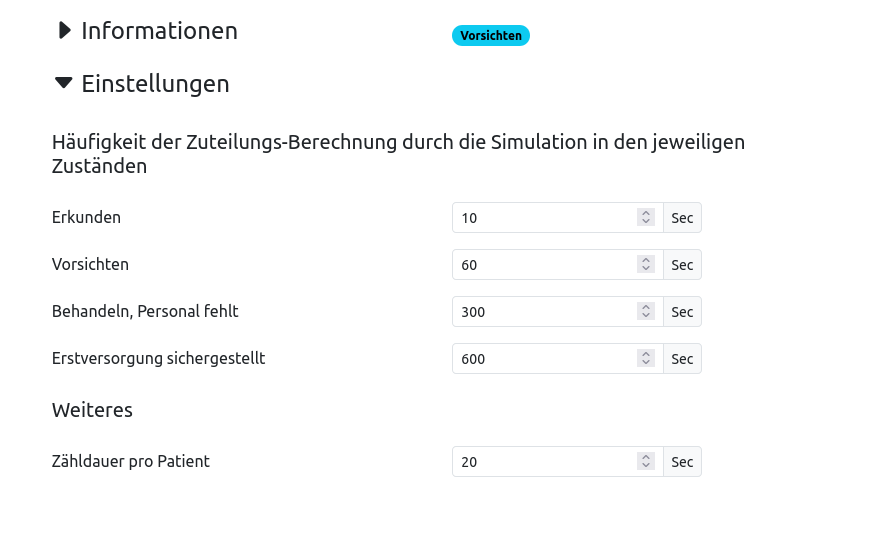
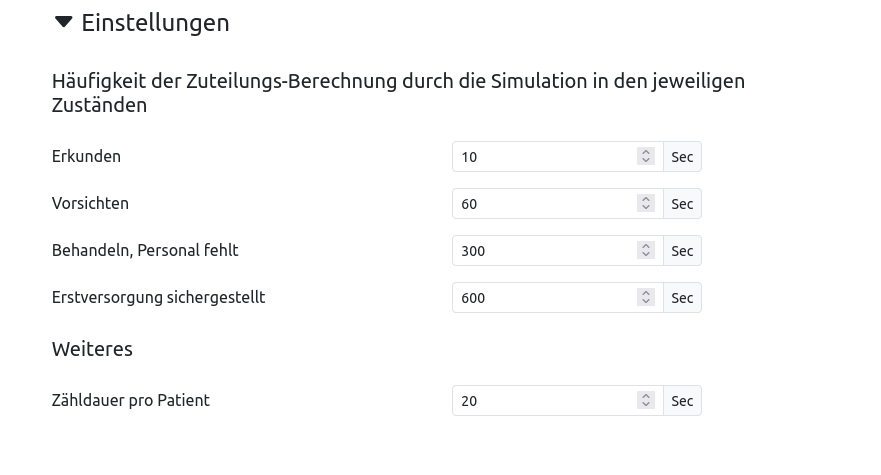
Implement feedback

diff --git a/docs/src/3_simulation/2_behaviors.md b/docs/src/3_simulation/2_behaviors.md
@@ -31,7 +31,7 @@ Damit eine Führungskraft zugewiesen werden kann, muss sich Personal im simulier
 
 Lässt Personal aus allen Fahrzeugen aussteigen, die diesen Bereich erreichen.
 
-Personal, das sich in Fahrzeugen befindet, kann keine Aufgaben übernehmen. Umgekehrt können unbesetzte Fahrzeuge nicht sofort losfahren. Daher ist diese Verhaltensweise zum Beispiel für Patientenablagen essentiell, für Bereitstellungsräume allerdings störend.
+Personal, das sich in Fahrzeugen befindet, kann keine Aufgaben übernehmen. Umgekehrt können unbesetzte Fahrzeuge nicht sofort losfahren. Daher ist diese Verhaltensweise zum Beispiel für Patientenablagen essentiell, für Bereitstellungsräume allerdings störend. In Bereichen, wo nicht alles Personal automatisch aussteigen soll, können einzelne Fahrzeuge weiterhin über den [Reiter Fahrzeuge](./1_general.md#fahrzeuge) ausgeladen werden, damit eine Führungskraft vor Ort ist.
 
 ### Informationen und Einstellungen
 
@@ -132,7 +132,7 @@ In der oberen Hälfte wird der aktuelle Zustand der Behandlung angezeigt. Dies u
 
 Über diese Optionen kann eingestellt werden, wie oft die Zuteilung von Personal zu Patienten neu ausgewertet werden soll. Dadurch kann auf Veränderungen von Patienten reagiert werden, wenn diese mehr oder weniger Personal benötigen. Unabhängig davon erfolgt sofort eine neue Zuteilung, wenn neues Personal im simulierten Bereich ankommt oder sich die Phase der Behandlung ändert.
 
-Für jede Phase kann ein eigenes Intervall festgelegt werden, sodass in instabilen Zuständen (zum Beispiel während der Vorsichtung) häufiger neu zugeteilt wird, als wenn die Erstversorgung sichergestellt ist. Die einzelnen Phasen sind in den Details beschrieben.
+Für jede Phase kann ein eigenes Intervall festgelegt werden, sodass in instabilen Zuständen (zum Beispiel während der Vorsichtung) häufiger neu zugeteilt wird, als wenn die Erstversorgung sichergestellt ist. Die einzelnen Phasen sind in den Details beschrieben. Zu geringe Intervalle können die Performance der Simulation beeinflussen. Stockt die Übungszeit, sollte geprüft werden, ob größere Intervalle das Problem beheben. Da die Neuzuteilung nach Ablauf des Intervalls sofort vorgenommen wird und keine zusätzliche "Entscheidungszeit" benötigt, sind zu geringe Intervalle außerdem möglicherweise nicht realistisch.
 
 #### Zähldauer pro Patient
 
